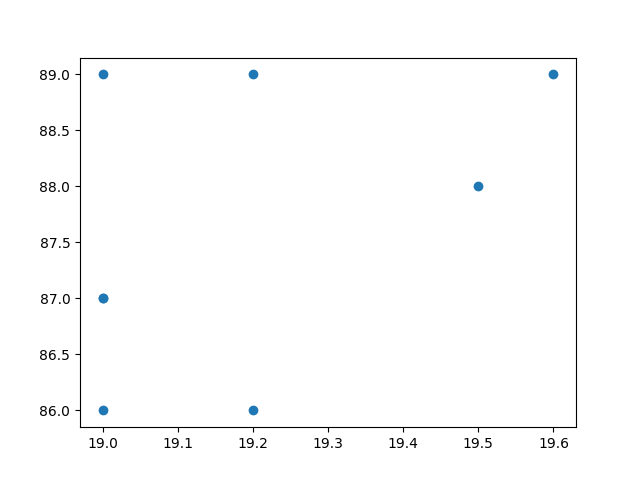
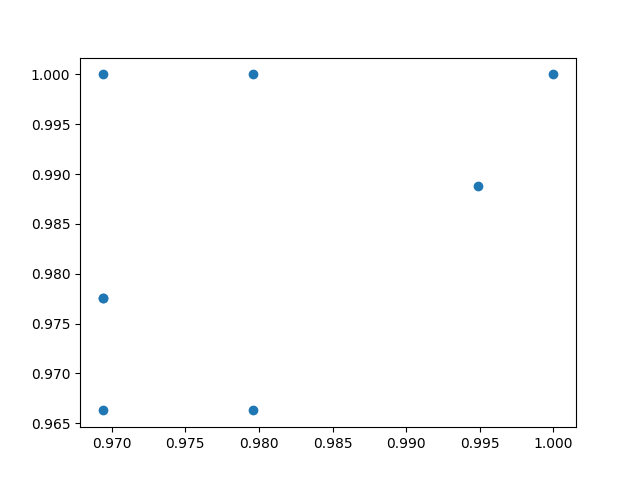
data normalisation

diff --git a/Junkai_Work/.ipynb_checkpoints/classsize_vs_attendance-checkpoint.py b/Junkai_Work/.ipynb_checkpoints/classsize_vs_attendance-checkpoint.py
@@ -40,6 +40,10 @@ satdcepri = pd.Series(atdcepri)
 df1 = pd.DataFrame({'Secondary':ssecodary, 'Primary':sprimary})
 df2 = pd.DataFrame({'Secondary ungraded attendence':satdcesec, 'Primary ungraded attendence':satdcepri})
 
+#normalise data
+df1['Secondary'] = df1['Secondary'] / df1['Secondary'].max()
+df2['Secondary ungraded attendence'] = df2['Secondary ungraded attendence'] / df2['Secondary ungraded attendence'].max()
+
 #secondary school attendance vs classsize
 plt.scatter(df1['Secondary'], df2['Secondary ungraded attendence'])
 plt.savefig("classsize_vs_attendance.png")

diff --git a/Junkai_Work/classsize_vs_attendance.py b/Junkai_Work/classsize_vs_attendance.py
@@ -40,6 +40,10 @@ satdcepri = pd.Series(atdcepri)
 df1 = pd.DataFrame({'Secondary':ssecodary, 'Primary':sprimary})
 df2 = pd.DataFrame({'Secondary ungraded attendence':satdcesec, 'Primary ungraded attendence':satdcepri})
 
+#normalise data
+df1['Secondary'] = df1['Secondary'] / df1['Secondary'].max()
+df2['Secondary ungraded attendence'] = df2['Secondary ungraded attendence'] / df2['Secondary ungraded attendence'].max()
+
 #secondary school attendance vs classsize
 plt.scatter(df1['Secondary'], df2['Secondary ungraded attendence'])
 plt.savefig("classsize_vs_attendance.png")
